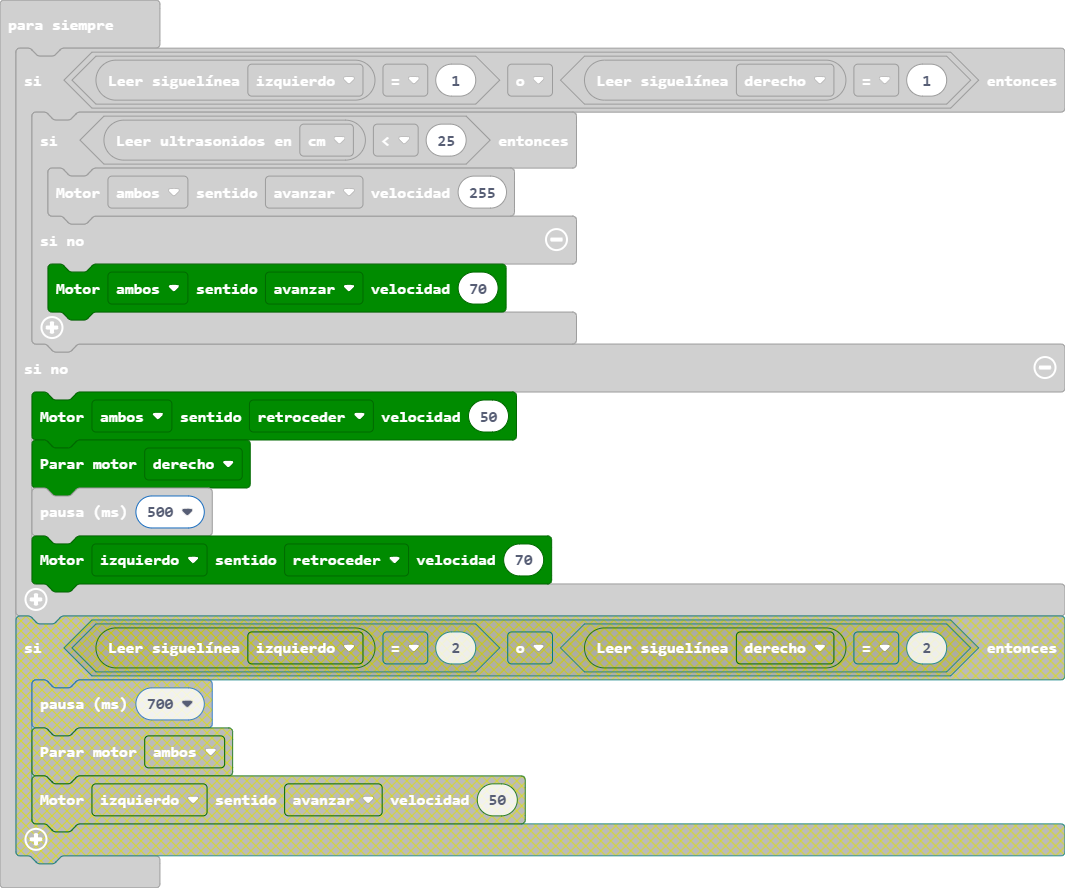
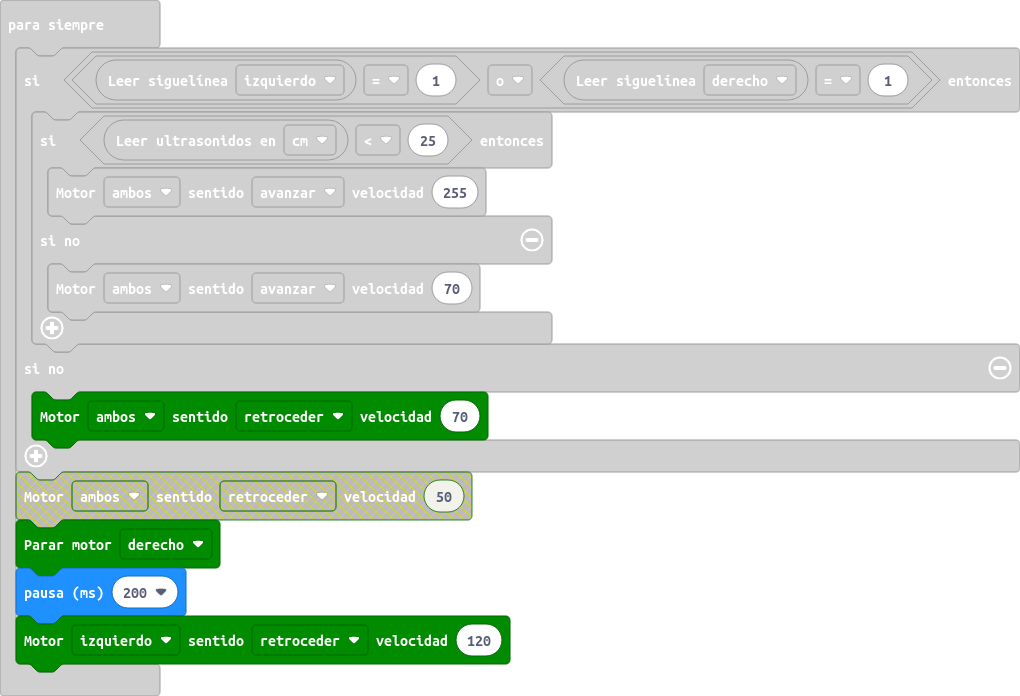
Actualizar pxt.json, main.blocks, main.ts

diff --git a/main.ts b/main.ts
@@ -6,9 +6,9 @@ basic.forever(function () {
             maqueen.motorRun(maqueen.Motors.All, maqueen.Dir.CW, 70)
         }
     } else {
-        maqueen.motorRun(maqueen.Motors.All, maqueen.Dir.CCW, 50)
+        maqueen.motorRun(maqueen.Motors.All, maqueen.Dir.CCW, 70)
         maqueen.motorStop(maqueen.Motors.M2)
-        basic.pause(500)
-        maqueen.motorRun(maqueen.Motors.M1, maqueen.Dir.CCW, 70)
+        basic.pause(200)
+        maqueen.motorRun(maqueen.Motors.M1, maqueen.Dir.CCW, 120)
     }
 })
